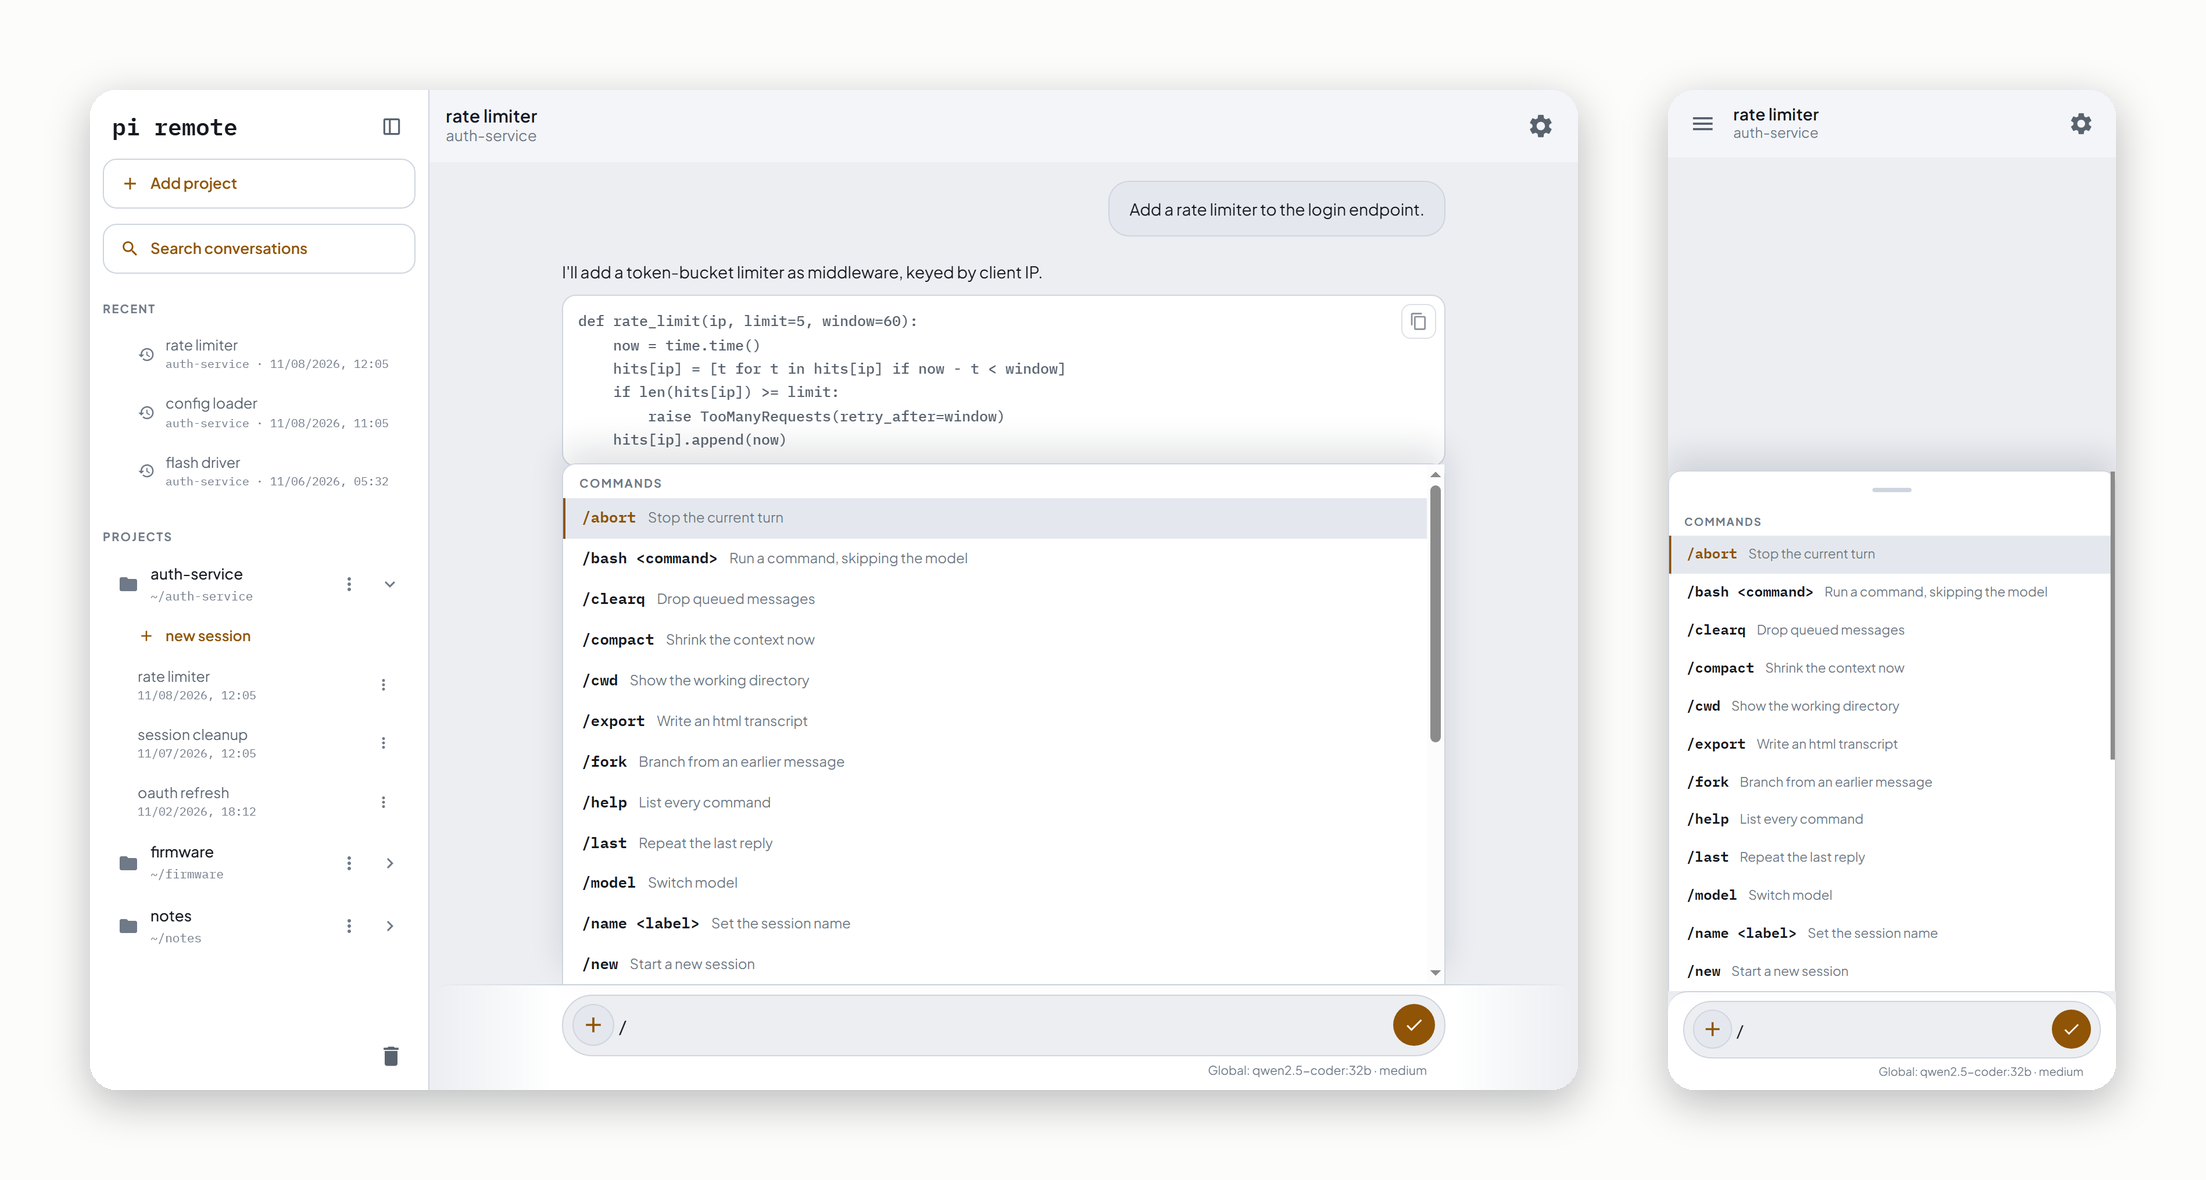
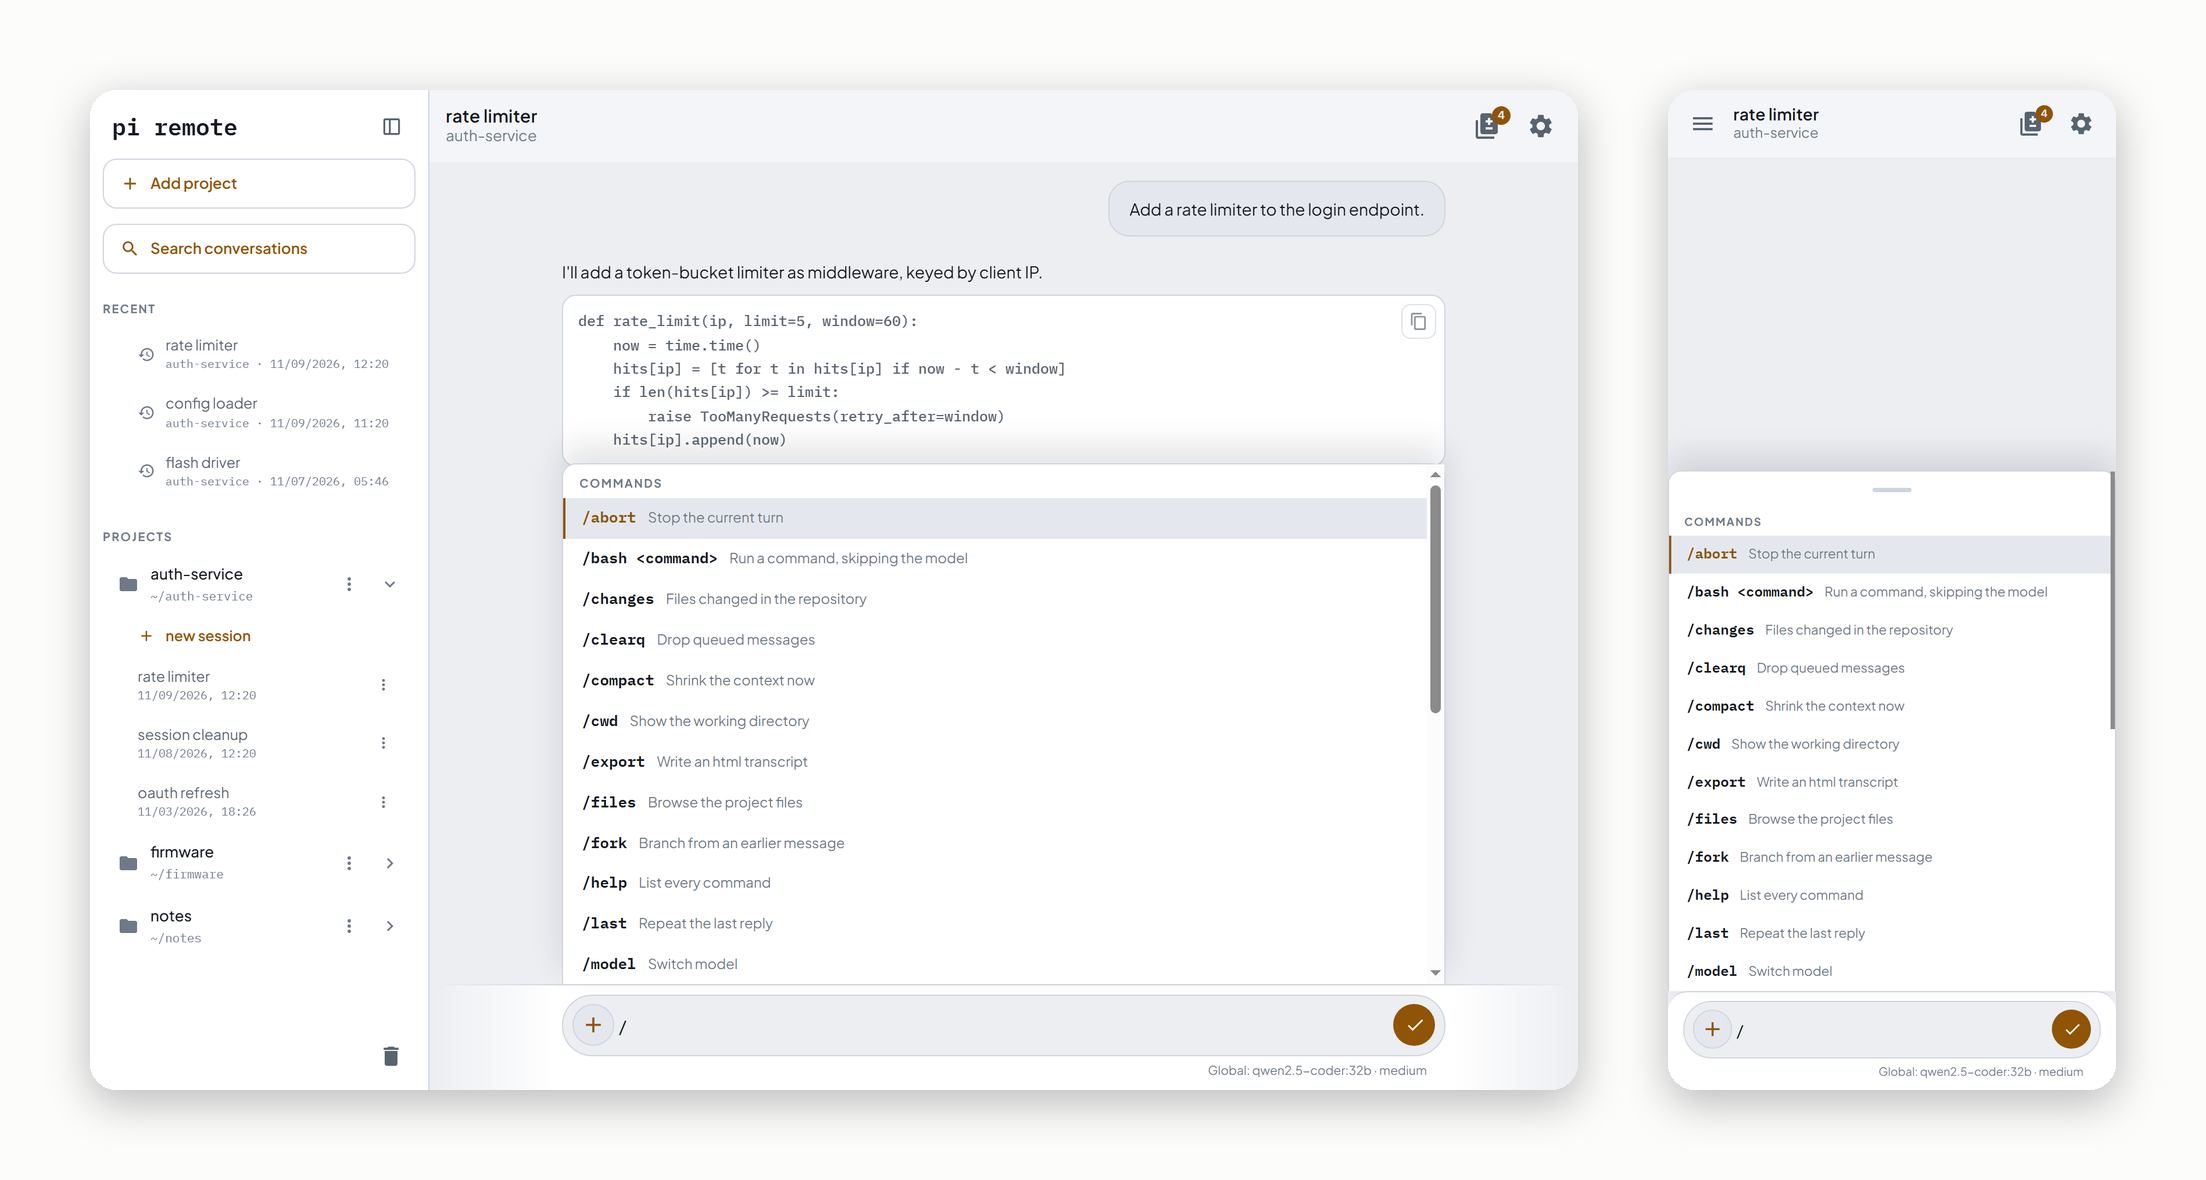
docs: screenshots for changes, files, worktrees and the session tree
Refresh every screenshot: the header now shows the changes button, the transcript has the token line and the running bar the live tok/s. New shots for the Changes tab and a diff, the Files tab, worktrees and /tree.

diff --git a/README.md b/README.md
@@ -332,7 +332,7 @@ arguments and output.
 
 <p align="center">
   <img src="docs/transcript.png" width="300"
-       alt="A finished turn on the phone: the question, one folded line for the reasoning and three tool calls, the answer, and three suggested replies under it">
+       alt="A finished turn on the phone: the question, one folded line for the reasoning and three tool calls, the answer with its token counts, and three suggested replies under it">
 </p>
 
 - **Code blocks** have a copy button, and long lines scroll inside the block,
@@ -365,6 +365,13 @@ each file with its status letter (`M` modified, `A` added, `U` untracked,
 removed. Tap a file to read its diff. It answers the question you have on the
 phone after a turn: what did the agent actually touch.
 
+<p align="center">
+  <img src="docs/changes.png" width="280"
+       alt="The Changes tab on the phone: the branch name, then four files with their status letter, folder and lines added and removed; the header button shows a count of 4">
+  <img src="docs/diff.png" width="280"
+       alt="The diff of app/auth.py: added lines in green, a removed line in red, context lines plain">
+</p>
+
 - The count refreshes when a turn ends and when the list opens.
 - It is read-only. Nothing is staged, committed or reverted from here; ask
   the agent, or use `/bash`.
@@ -377,6 +384,11 @@ phone after a turn: what did the agent actually touch.
 back up, and the phone's back button climbs one level at a time. A file opens
 with line numbers (images are shown as images), and *Add path to message*
 drops its path into the composer, for "look at this file" without typing it.
+
+<p align="center">
+  <img src="docs/files.png" width="280"
+       alt="The Files tab: the project name as a breadcrumb, three folders first, then three files with their sizes">
+</p>
 
 - Read-only, and it never leaves the project folder: `..`, absolute paths and
   links pointing outside are refused by the bridge, not just hidden by the
@@ -392,6 +404,11 @@ drops its path into the composer, for "look at this file" without typing it.
 A project's `⋯` menu in the side rail has **Worktrees**: every checkout of
 that repository, with its branch. The main one and the one open now are
 labelled. From there:
+
+<p align="center">
+  <img src="docs/worktrees.png" width="280"
+       alt="The Worktrees sheet: a New worktree button, the main checkout marked open, and two more worktrees with their branch and folder">
+</p>
 
 - **New worktree** asks for a branch. An existing branch is checked out; a
   new name creates the branch from `HEAD`. The folder goes next to the
@@ -410,6 +427,11 @@ pi keeps a conversation as a tree: forking or editing an earlier message
 starts a branch, and the old path stays in the session file. `/tree` shows all
 of it on one screen. Branches you left sit right where they started, one lane
 to the right, dimmed and labelled; the active branch runs down the left.
+
+<p align="center">
+  <img src="docs/tree.png" width="280"
+       alt="The session tree: the active branch down the left with amber dots for the user's messages, and an abandoned branch one lane to the right, dimmed and labelled Branch">
+</p>
 
 - Tap any message to read it in full.
 - Tap one of **your messages on the active branch** to fork from it (the same
@@ -514,7 +536,7 @@ dangerous commands with a real dialog you can answer from the phone.
 
 <p align="center">
   <img src="docs/running.png" width="860"
-       alt="While generating, on desktop and phone: a rotating status word with the seconds, the context meter, and the send button turned into a stop square">
+       alt="While generating, on desktop and phone: a rotating status word with the seconds and the live tok/s, the context meter, and the send button turned into a stop square">
 </p>
 
 ## Commands
